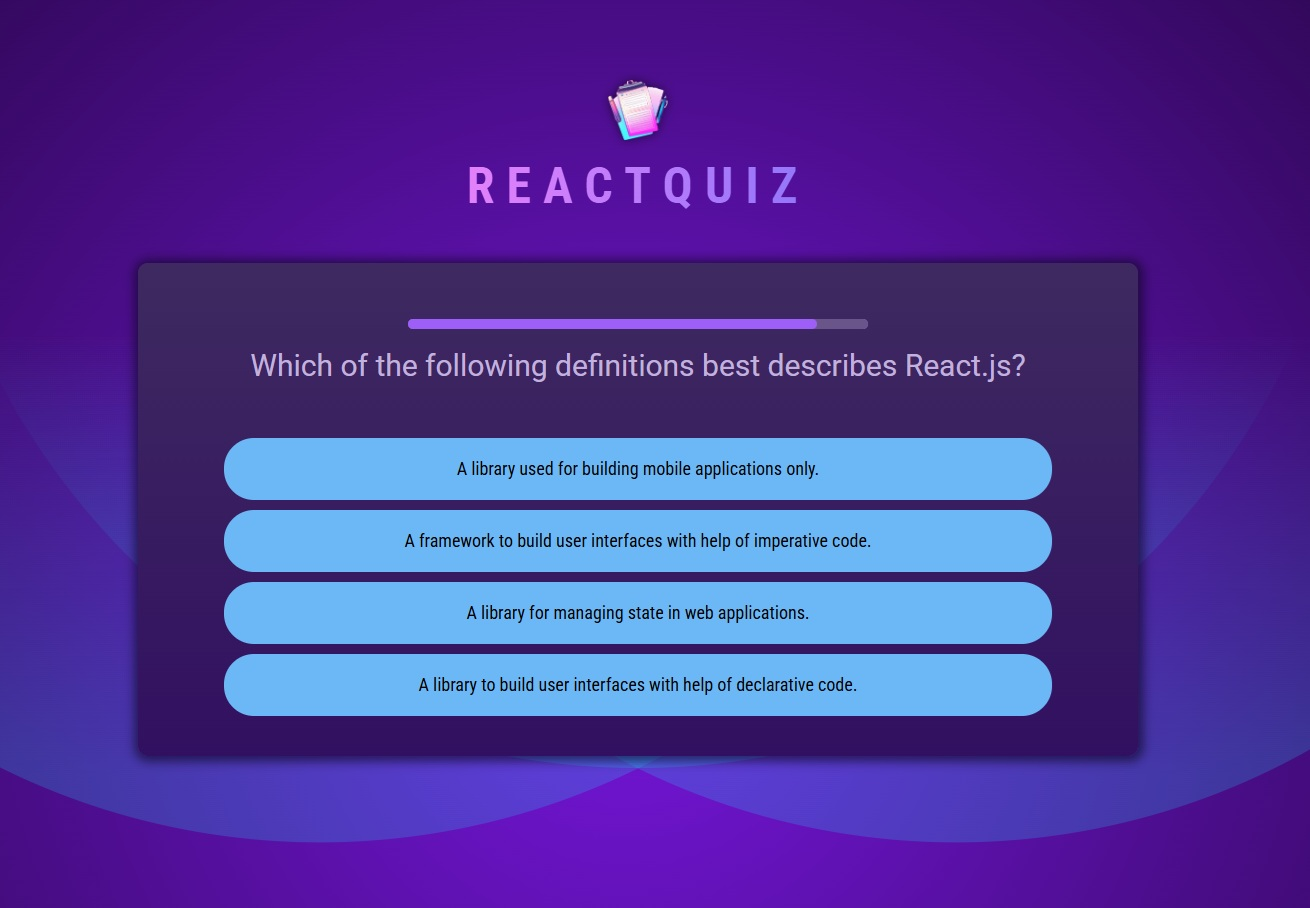
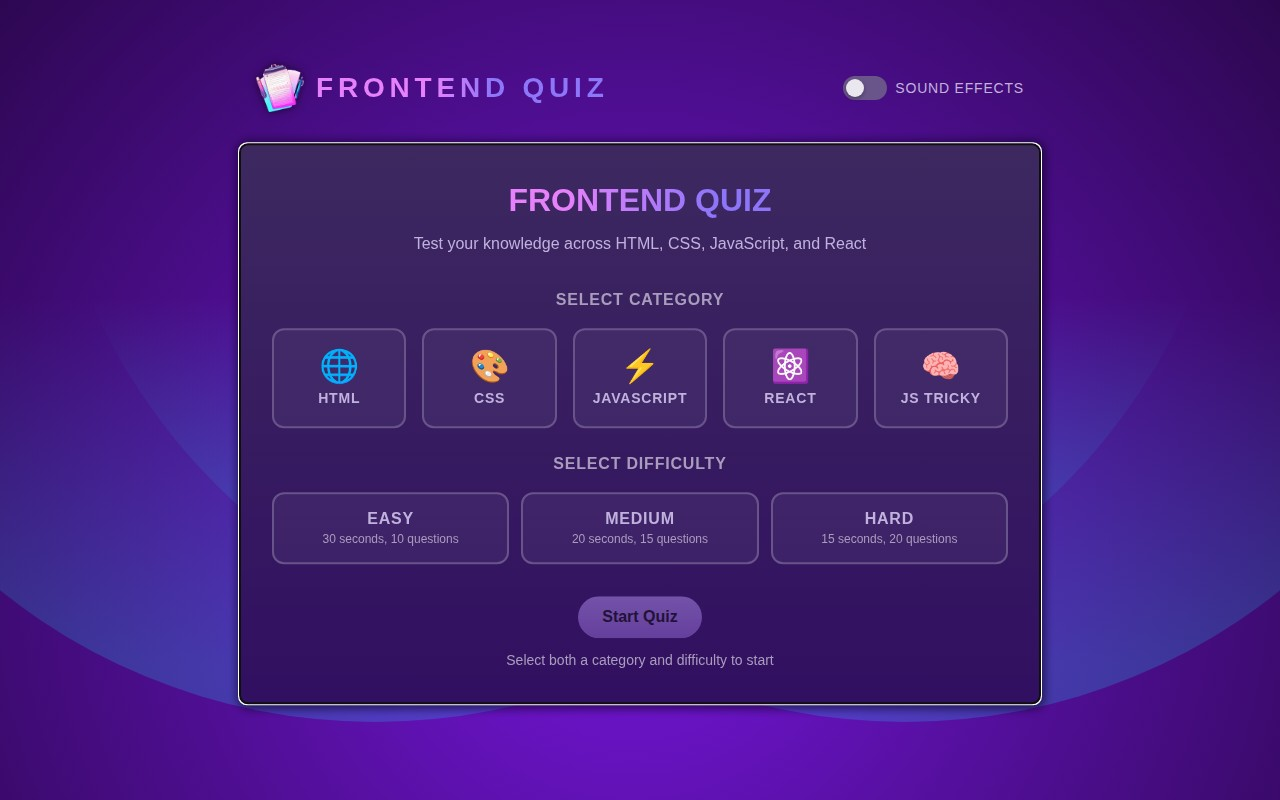
docs: update screenshot and fix README features list
- Replace old screenshot with current app showing all 5 categories
- Fix duplicate features entry (4 categories / 5 categories)

diff --git a/README.md b/README.md
@@ -8,8 +8,7 @@ An interactive frontend developer quiz app built with React 19. Tests knowledge 
 
 ## Features
 
-- **4 categories** — HTML, CSS, JavaScript, React (95 questions total)
-- **5 categories** — HTML, CSS, JavaScript, React + **JS Tricky** (250 questions total)
+- **5 categories** — HTML, CSS, JavaScript, React, JS Tricky (250 questions total)
 - **JS Tricky** — 155 output-prediction questions from [Lydia Hallie's javascript-questions](https://github.com/lydiahallie/javascript-questions) rendered with syntax-highlighted code blocks
 - **3 difficulty levels** — Easy (30s / 10 questions), Medium (20s / 15), Hard (15s / 20)
 - **Topic filters** — focus on specific areas within each category
